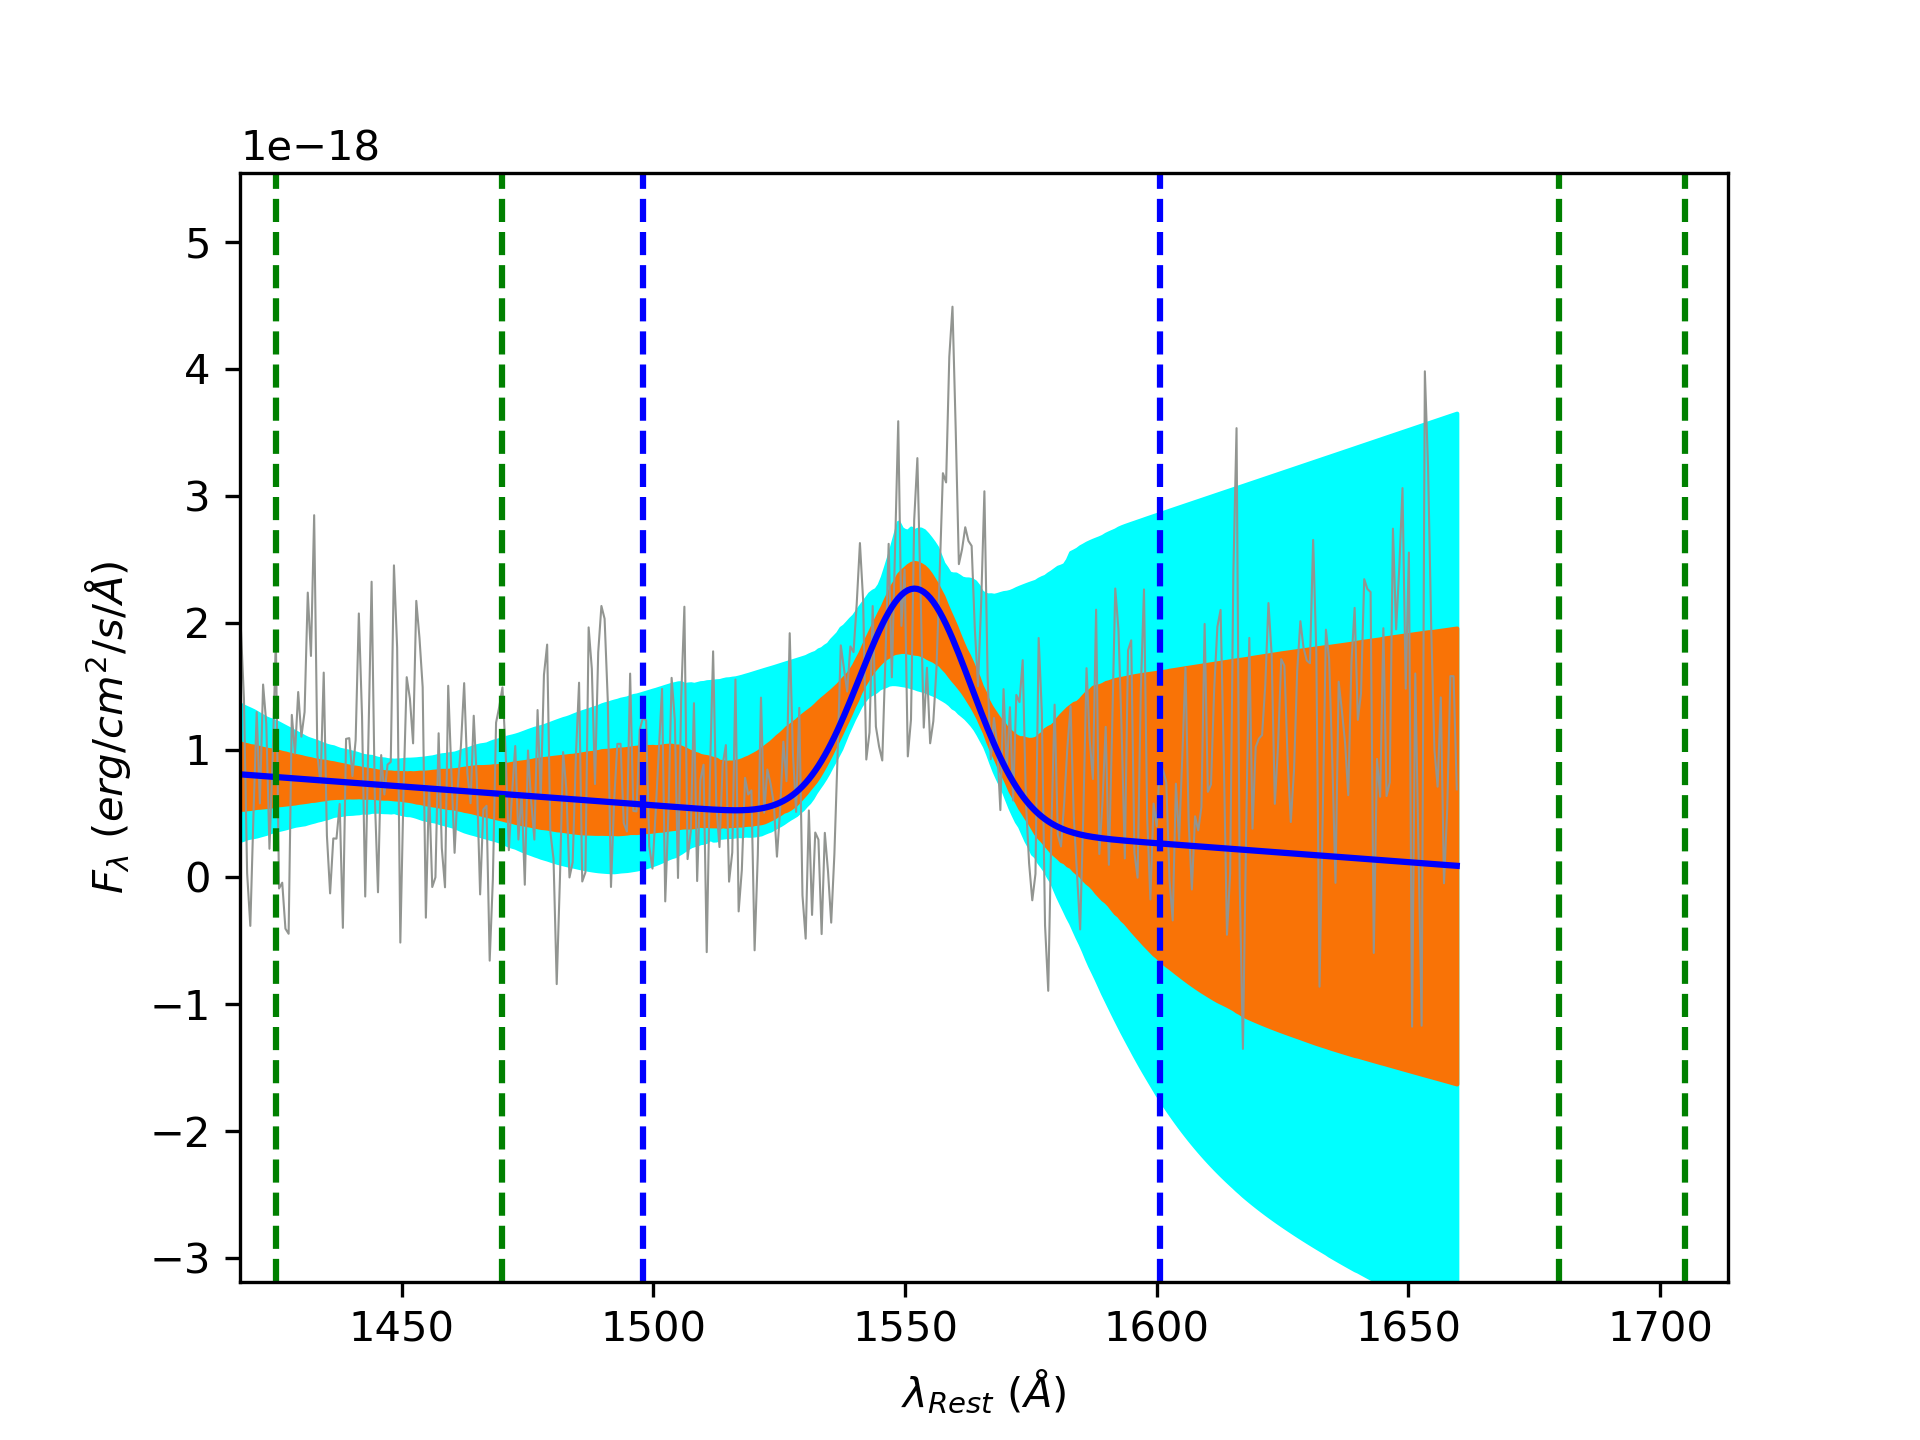
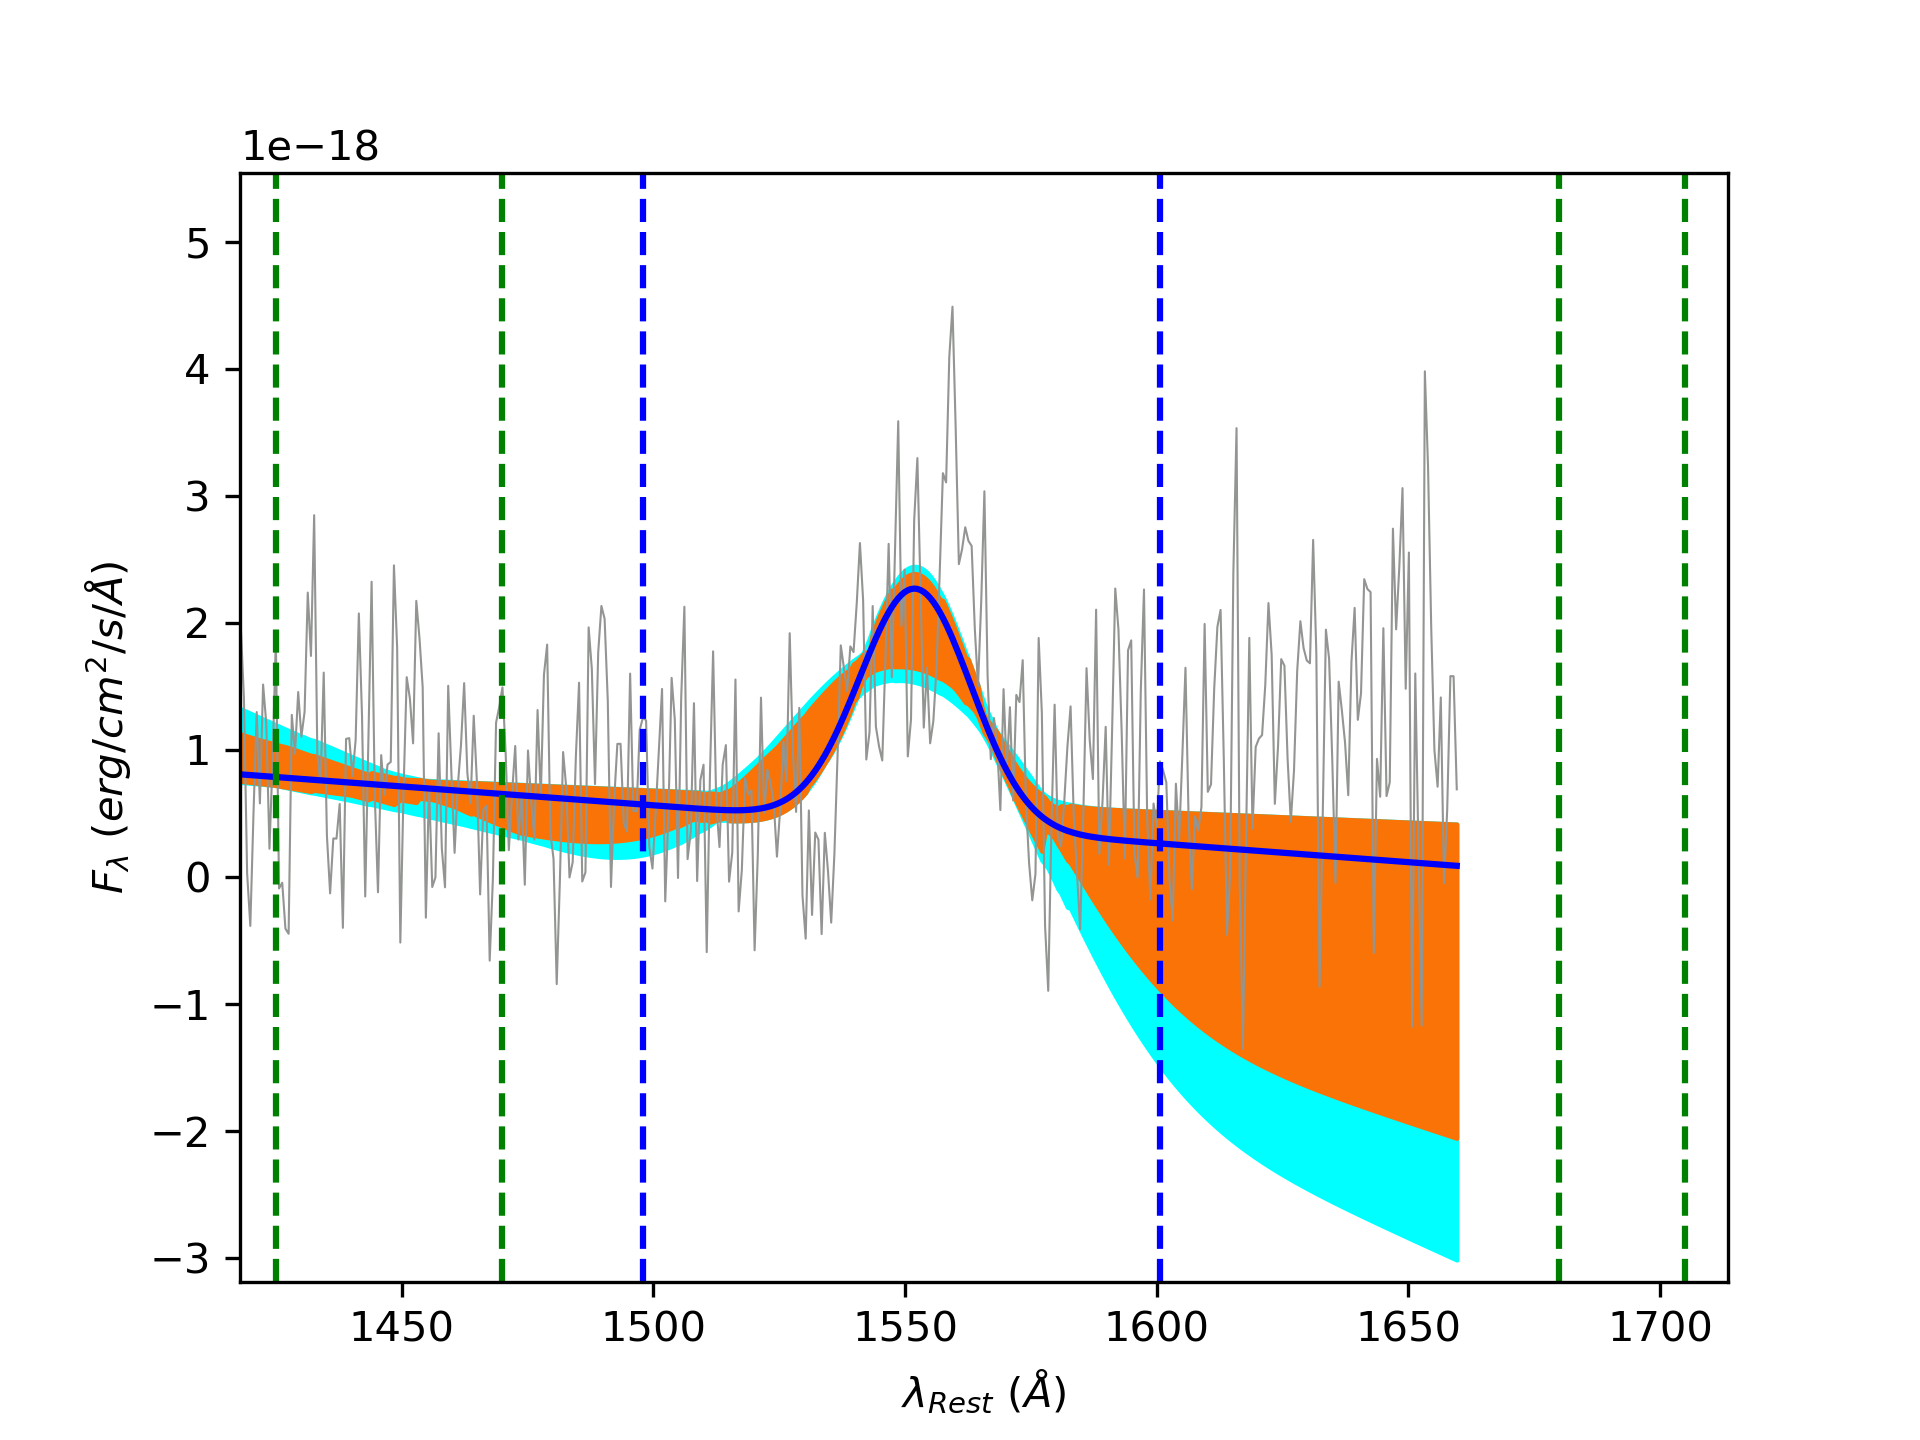
rjassef

Changed region(s): [[0.125, 0.2812, 0.7812, 0.9062]]

diff --git a/Spec_pipeline/Line_Fitter/multi_line.py b/Spec_pipeline/Line_Fitter/multi_line.py
@@ -9,10 +9,6 @@ import re
 from .line_class import Line_fit
 from .MC_errors_general import get_error
 
-def comb(n,k):
-    c = np.math.factorial(n)/(np.math.factorial(n-k)*np.math.factorial(k))
-    return np.int32(c)
-
 class Multi_Line_fit(Line_fit):
 
     def __init__(self,_line_name):
@@ -63,9 +59,9 @@ class Multi_Line_fit(Line_fit):
             k+= np.sum(np.arange(self.nlines))
             
         self.line_velocity_region = x[k]*u.km/u.s
-        n_creg = int((len(x)-(k+1))/2)
-        self.continuum_regions = np.zeros((n_creg,2))
-        for i in range(n_creg):
+        self.ncont_reg = int((len(x)-(k+1))/2)
+        self.continuum_regions = np.zeros((self.ncont_reg,2))
+        for i in range(self.ncont_reg):
             self.continuum_regions[i][0] = x[i*2+k+1]
             self.continuum_regions[i][1] = x[i*2+k+2]
         self.continuum_regions = self.continuum_regions*u.AA
@@ -115,14 +111,14 @@ class Multi_Line_fit(Line_fit):
                 k+=1
             else:
                 j = np.nonzero(self.joint_sigma[:,i])[0]
-                x_line_use[i*3+1] = x_line_use[j*3]
+                x_line_use[i*3+1] = x_line_use[j*3+1]
 
-            if self.fixed_ratio[self.fixed_ratio[:,i]>=0,i].size==0:
+            if self.fixed_ratio[self.fixed_ratio[:,i]>0,i].size==0:
                 x_line_use[i*3+2] = x_line_fit[k]
                 k+=1
             else:
                 j = np.nonzero(self.fixed_ratio[:,i])[0]
-                x_line_use[i*3+2] = x_line_use[j*3]*self.fixed_ratio[j,i]
+                x_line_use[i*3+2] = x_line_use[j*3+2]*self.fixed_ratio[j,i]
 
         return x_line_use
         
@@ -198,7 +194,7 @@ class Multi_Line_fit(Line_fit):
         x_line_use = self.line_par_translator(x_line)
 
         for i in range(self.nlines):
-            dv, flam_line, sigma_v = self.line_par_parser(i,x_line)
+            dv, flam_line, sigma_v = self.line_par_parser(i,x_line_use)
 
             #Do no allow huge shifts on the line centers
             if np.abs(dv)>self.dv_max[i]:
@@ -237,11 +233,15 @@ class Multi_Line_fit(Line_fit):
     #This function is called to determine the indices of the spectrum
     #to be used for fitting the continuum.
     def get_i_cont(self,spec):
-        i_cont = np.argwhere(
-            ((spec.lam_rest>=self.continuum_regions[0][0]) &
-             (spec.lam_rest<=self.continuum_regions[0][1])) |
-            ((spec.lam_rest>=self.continuum_regions[1][0]) &
-             (spec.lam_rest<=self.continuum_regions[1][1])))
+
+        i_cont_use = []
+        for k in range(self.ncont_reg):
+            i_cont_use.append(
+                np.argwhere((spec.lam_rest>=self.continuum_regions[k][0]) &
+             (spec.lam_rest<=self.continuum_regions[k][1]))
+            )
+        i_cont_flat = [item for sublist in i_cont_use for item in sublist]
+        i_cont = np.unique(i_cont_flat)
         return i_cont
 
     #This is one is called to determine the indices of the spectrum
@@ -300,7 +300,7 @@ class Multi_Line_fit(Line_fit):
             if self.joint_dv[self.joint_dv[:,i]>0,i].size==0: _npar_line+=1
             if self.joint_sigma[self.joint_sigma[:,i]>0,i].size==0: \
                _npar_line+=1
-            if self.fixed_ratio[self.fixed_ratio[:,i]>=0,i].size==0: \
+            if self.fixed_ratio[self.fixed_ratio[:,i]>0,i].size==0: \
                _npar_line+=1
         return _npar_line
 
@@ -322,7 +322,7 @@ class Multi_Line_fit(Line_fit):
         
         for i in range(self.nlines):
             self.dv_fit[i], self.flam_line_fit[i],\
-                self.sigma_v_fit[i] = self.line_par_parser(i,x_line)
+                self.sigma_v_fit[i] = self.line_par_parser(i,x_line_use)
 
         return
 
@@ -357,7 +357,7 @@ class Multi_Line_fit(Line_fit):
             if self.joint_sigma[self.joint_sigma[:,i]>0,i].size==0:
                 self.x0_line[k] = flam_line_0[i]
                 k+=1
-            if self.fixed_ratio[self.fixed_ratio[:,i]>=0,i].size==0:
+            if self.fixed_ratio[self.fixed_ratio[:,i]>0,i].size==0:
                 self.x0_line[k] = sigma_v_0[i]
                 k+=1
 
@@ -392,4 +392,51 @@ class Multi_Line_fit(Line_fit):
         self.b_low, self.b_hig = get_error(b, self.b)
 
         return
-     
+
+    ##########
+    # Printing
+    ##########
+
+    def print_fit_header(self):
+        print_output = ""
+        for i in range(self.nlines):
+            print_output += "{1:s}{0:d} {2:s}{0:d} {3:s}{0:d} ".format(
+                i+1,"dv", "flam_line", "FWHM_v")
+        return print_output
+
+    
+    def print_fit(self):
+        print_output = ""
+        for i in range(self.nlines): 
+            print_output += "{0:.3f} {1:.3e} {2:.3f} ".format(
+                self.dv_fit[i].value, 
+                self.flam_line_fit[i].value, 
+                self.FWHM_v[i].value)
+        return print_output
+
+    def print_MC_header(self):
+        print_output = ""
+        for i in range(self.nlines):
+            print_output += "{1:s}{0:d}_low {1:s}{0:d}_hig ".format(
+                i+1,"dv")
+            print_output += "{1:s}{0:d}_low {1:s}{0:d}_hig ".format(
+                i+1,"flam_line")
+            print_output += "{1:s}{0:d}_low {1:s}{0:d}_hig ".format(
+                i+1,"sigma_v")
+        return print_output
+
+
+    
+    def print_MC(self):
+        print_output = ""
+        for i in range(self.nlines):
+            print_output += "{0:.3f} {1:.3f} ".format(
+                self.dv_low[i].value,
+                self.dv_hig[i].value)
+            print_output += "{0:.3e} {1:.3e} ".format(
+                self.flam_line_low[i].value,
+                self.flam_line_hig[i].value)
+            print_output += "{0:.3f} {1:.3f} ".format(
+                self.FWHM_v_low[i].value,
+                self.FWHM_v_hig[i].value)
+        return print_output

diff --git a/multi_line_fit_tests/Lya_NV_linewidths.py b/multi_line_fit_tests/Lya_NV_linewidths.py
@@ -30,7 +30,7 @@ make_plot = True
 
 #######
 
-cato = open("CIV_results.txt","w")
+cato = open("Lya_NV_results.txt","w")
 cato.write("{0:s} ".format("obj_id"))
 
 cat = open("data.txt")
@@ -40,26 +40,27 @@ for i,line in enumerate(cat):
         continue
 
     #Set the fitter object.
-    civ_fit = Multi_Line_fit("CIV")
+    #lya_nv_fit = Multi_Line_fit("LyA_NV")
+    lya_nv_fit = Multi_Line_fit("LyA_NVred")
 
     if i==0:
-        cato.write(civ_fit.print_fit_header())
+        cato.write(lya_nv_fit.print_fit_header())
         if estimate_errors:
-            cato.write(civ_fit.print_MC_header())
+            cato.write(lya_nv_fit.print_MC_header())
         cato.write("\n")
     
     #Read the line and set up the correct object.
     x = line.split()
     spec = read_spec(x[0],float(x[1]),x[2],x[3:],
-                     line_center=civ_fit.line_center)
+                     line_center=lya_nv_fit.line_center[0])
     if verbose is True:
         print
         print(spec.name)
     cato.write("{0:s} ".format(spec.name))
         
     #Run the fit
-    civ_fit.run_fit(spec)
-    cato.write(civ_fit.print_fit())
+    lya_nv_fit.run_fit(spec)
+    cato.write(lya_nv_fit.print_fit())
 
     #Get the fit errors.
     chain_name = None
@@ -67,15 +68,15 @@ for i,line in enumerate(cat):
         if verbose is True:
             print("Running MC with ",nrep,"steps in ",Ncpu,"cores...")
         chain_name = spec.name+".CIV_chain.txt"
-        civ_fit.run_MC(spec,nrep,Ncpu=Ncpu,save_chain=chain_name)
-        cato.write(civ_fit.print_MC())
+        lya_nv_fit.run_MC(spec,nrep,Ncpu=Ncpu,save_chain=chain_name)
+        cato.write(lya_nv_fit.print_MC())
 
     #Plot the fit.
     if make_plot:
         if verbose is True:
             print("Making the plot...")
-        plot_fname = "{0:s}.CIV_fit.png".format(spec.name)
-        civ_fit.plot(spec,chain=chain_name,plot_fname=plot_fname)
+        plot_fname = "{0:s}.Lya_NV_fit.png".format(spec.name)
+        lya_nv_fit.plot(spec,chain=chain_name,plot_fname=plot_fname)
 
     cato.write("\n")
 

diff --git a/Spec_pipeline/Line_Fitter/plot_fit.py b/Spec_pipeline/Line_Fitter/plot_fit.py
@@ -25,8 +25,14 @@ def plot_line(lam,label):
 def plot_fit(spec,line_fitter,plot_fname=None,chain=None):
 
     #Set the plot x-axis limits.
-    xmin = np.min(line_fitter.continuum_regions).to(u.AA).value * (1.-0.005)
-    xmax = np.max(line_fitter.continuum_regions).to(u.AA).value * (1.+0.005)
+    i_line = line_fitter.get_i_line(spec)
+    i_cont = line_fitter.get_i_cont(spec)
+    xminl = np.min(spec.lam_rest[i_line])
+    xmaxl = np.max(spec.lam_rest[i_line])
+    xminc = np.min(spec.lam_rest[i_cont])
+    xmaxc = np.max(spec.lam_rest[i_cont])
+    xmin = np.min([xminl.value,xminc.value])
+    xmax = np.max([xmaxl.value,xmaxc.value])
     plt.xlim([xmin,xmax])
 
     #Plot the spectrum.
@@ -83,14 +89,14 @@ def plot_fit(spec,line_fitter,plot_fname=None,chain=None):
     plt.ylim([flam_min,flam_max])
 
     #Plot the continuum fit regions.
-    for i in range(len(line_fitter.continuum_regions[:][0])):
+    #for i in range(len(line_fitter.continuum_regions[:][0])):
+    for i in range(line_fitter.ncont_reg):
         lam1 = line_fitter.continuum_regions[i][0].value
         lam2 = line_fitter.continuum_regions[i][1].value
         plt.plot([lam1,lam1],[flam_min,flam_max],'--g')
         plt.plot([lam2,lam2],[flam_min,flam_max],'--g')
 
     #Plot the line-fitting regions.
-    i_line = line_fitter.get_i_line(spec)
     lam_line_fit = spec.lam_rest[i_line]
     lam_line_fit_min = np.min(lam_line_fit).value
     lam_line_fit_max = np.max(lam_line_fit).value
